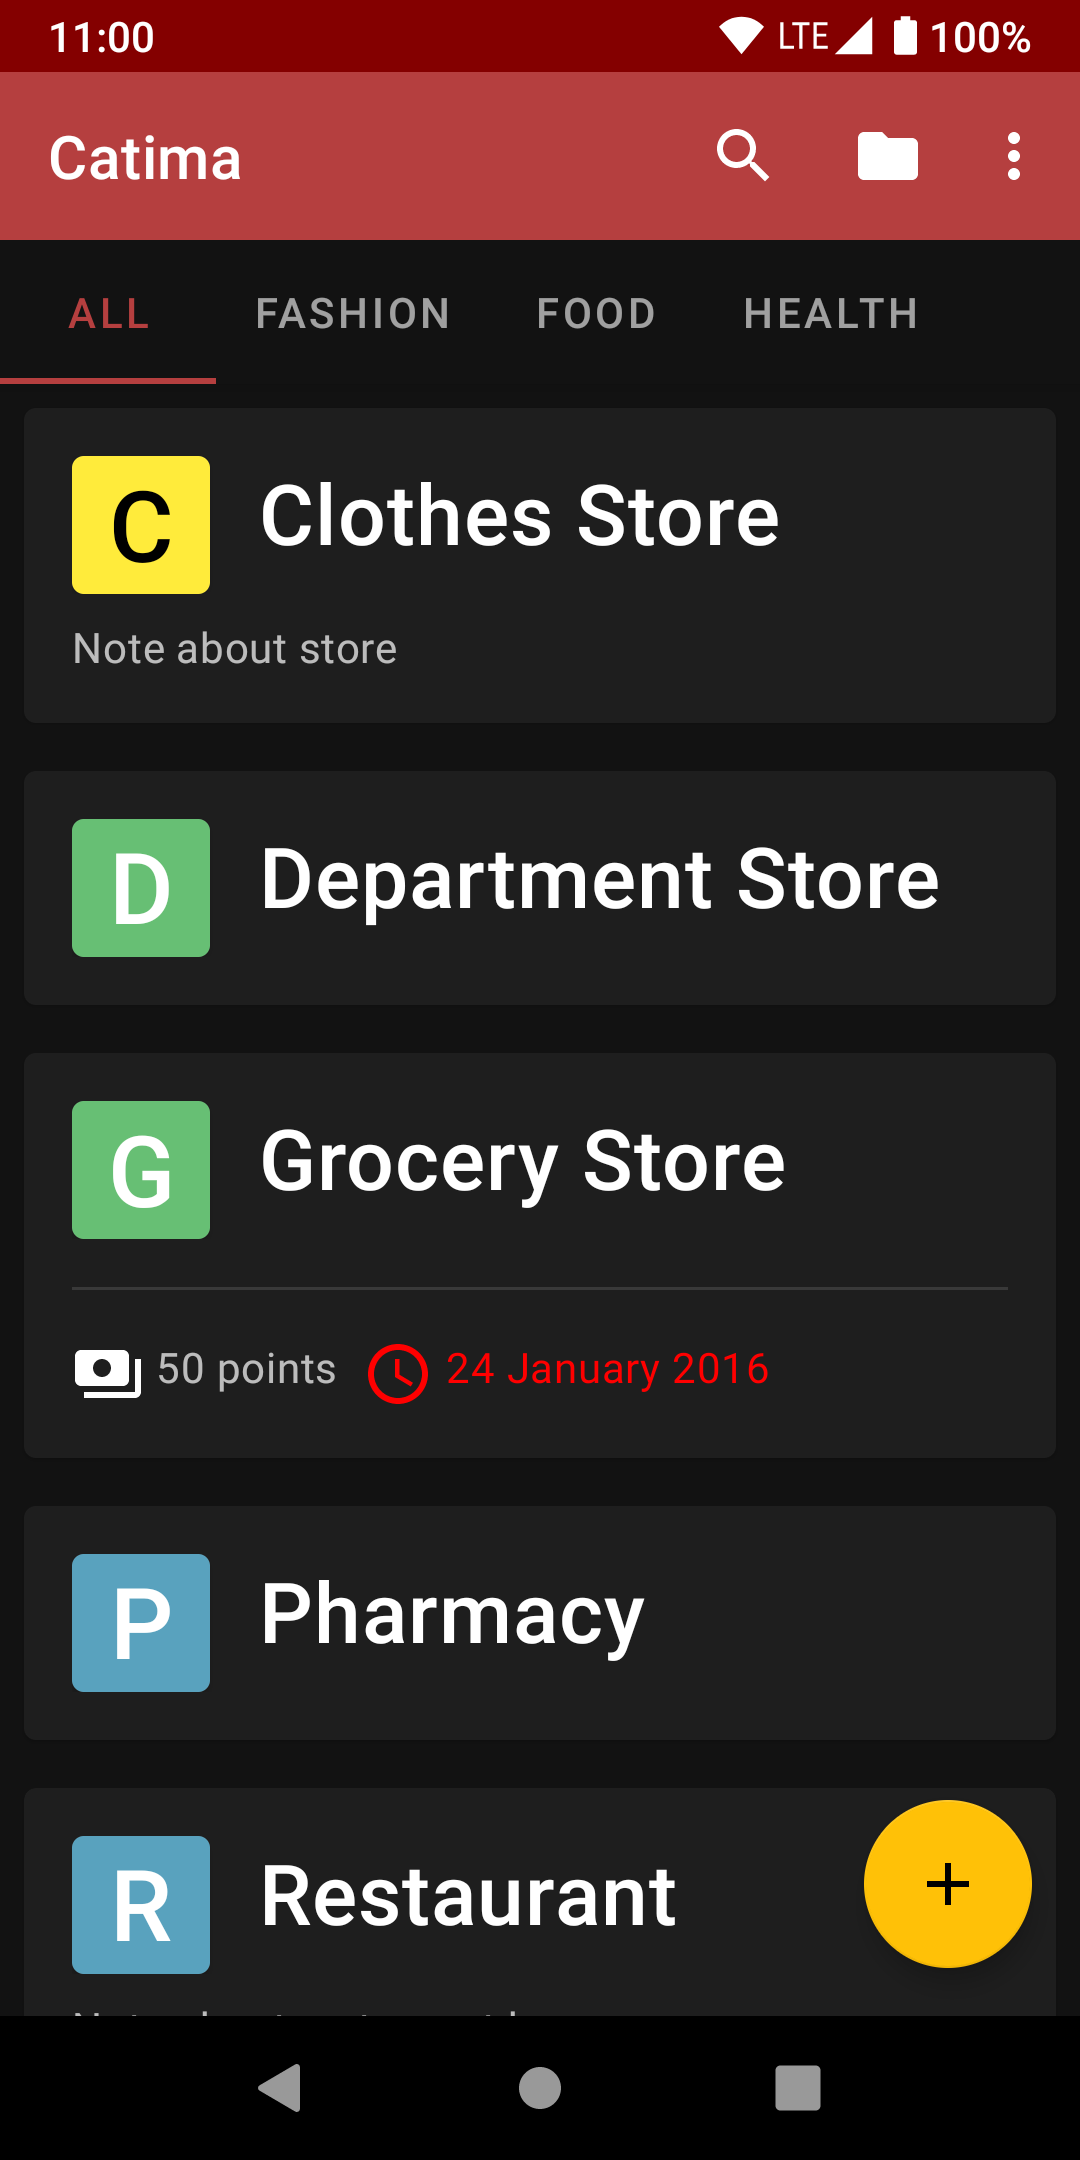
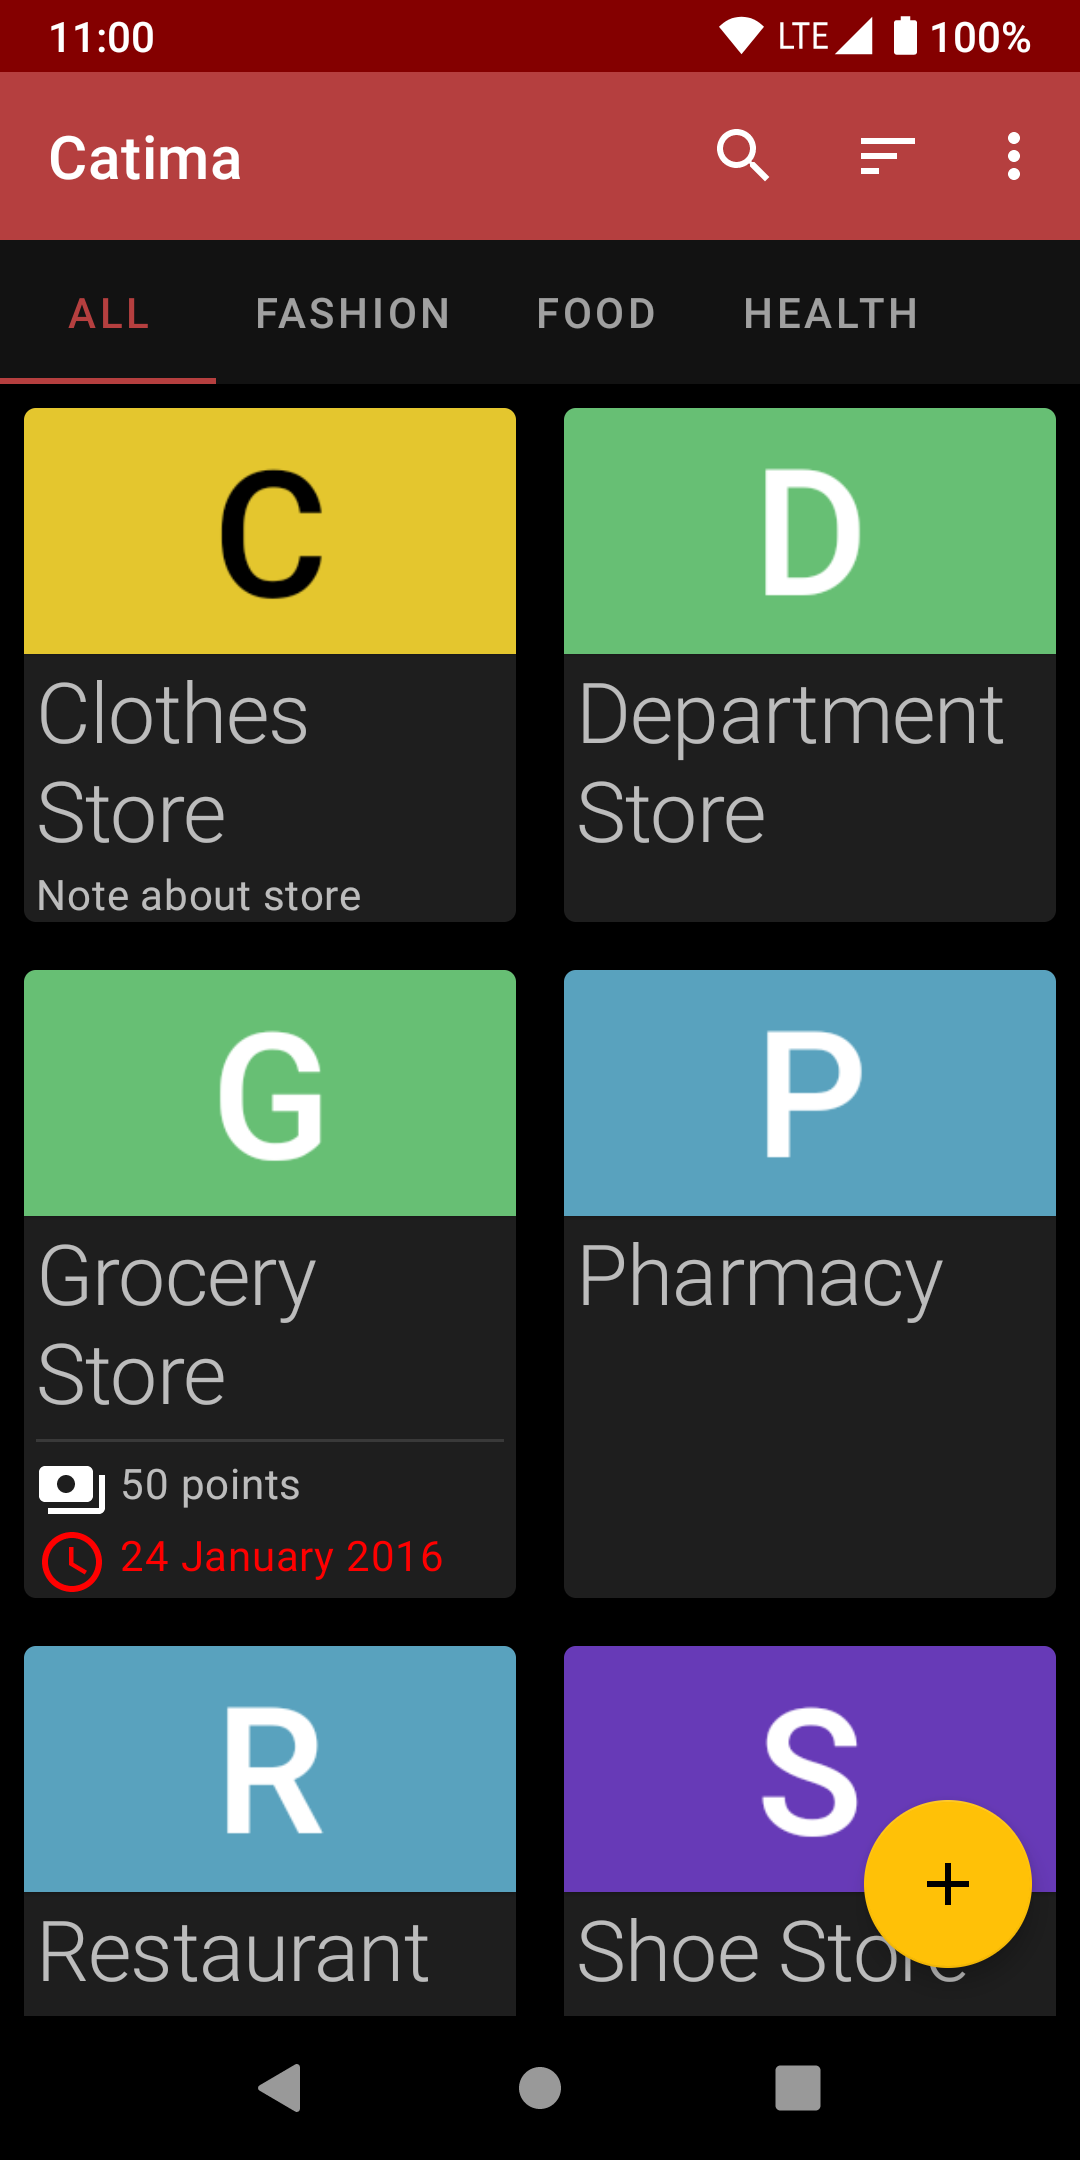
Update screenshots

diff --git a/CHANGELOG.md b/CHANGELOG.md
@@ -1,5 +1,10 @@
 # Changelog
 
+## Unreleased - 92
+
+- New main screen layout
+- Fix bottomsheet sizing issues when switching in and out of fullscreen
+
 ## v2.9.0 - 91 (2021-11-14)
 
 - Improved group management support
